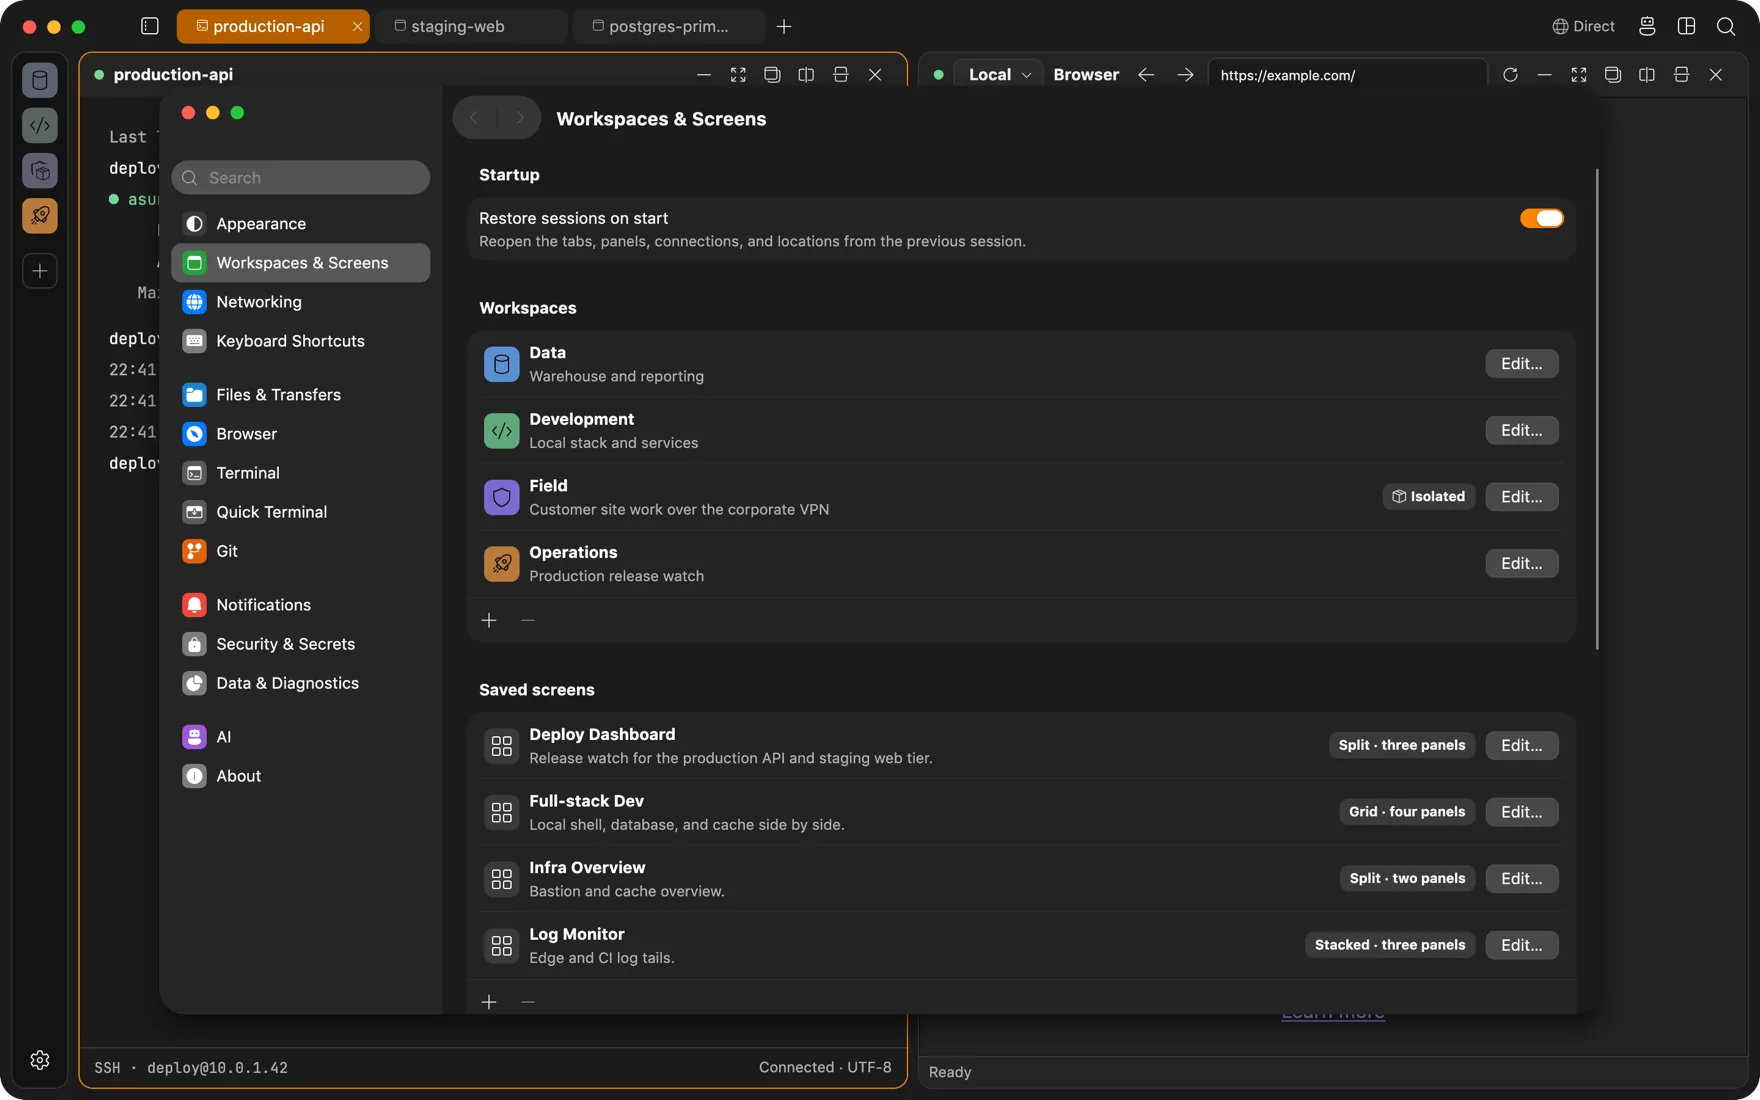
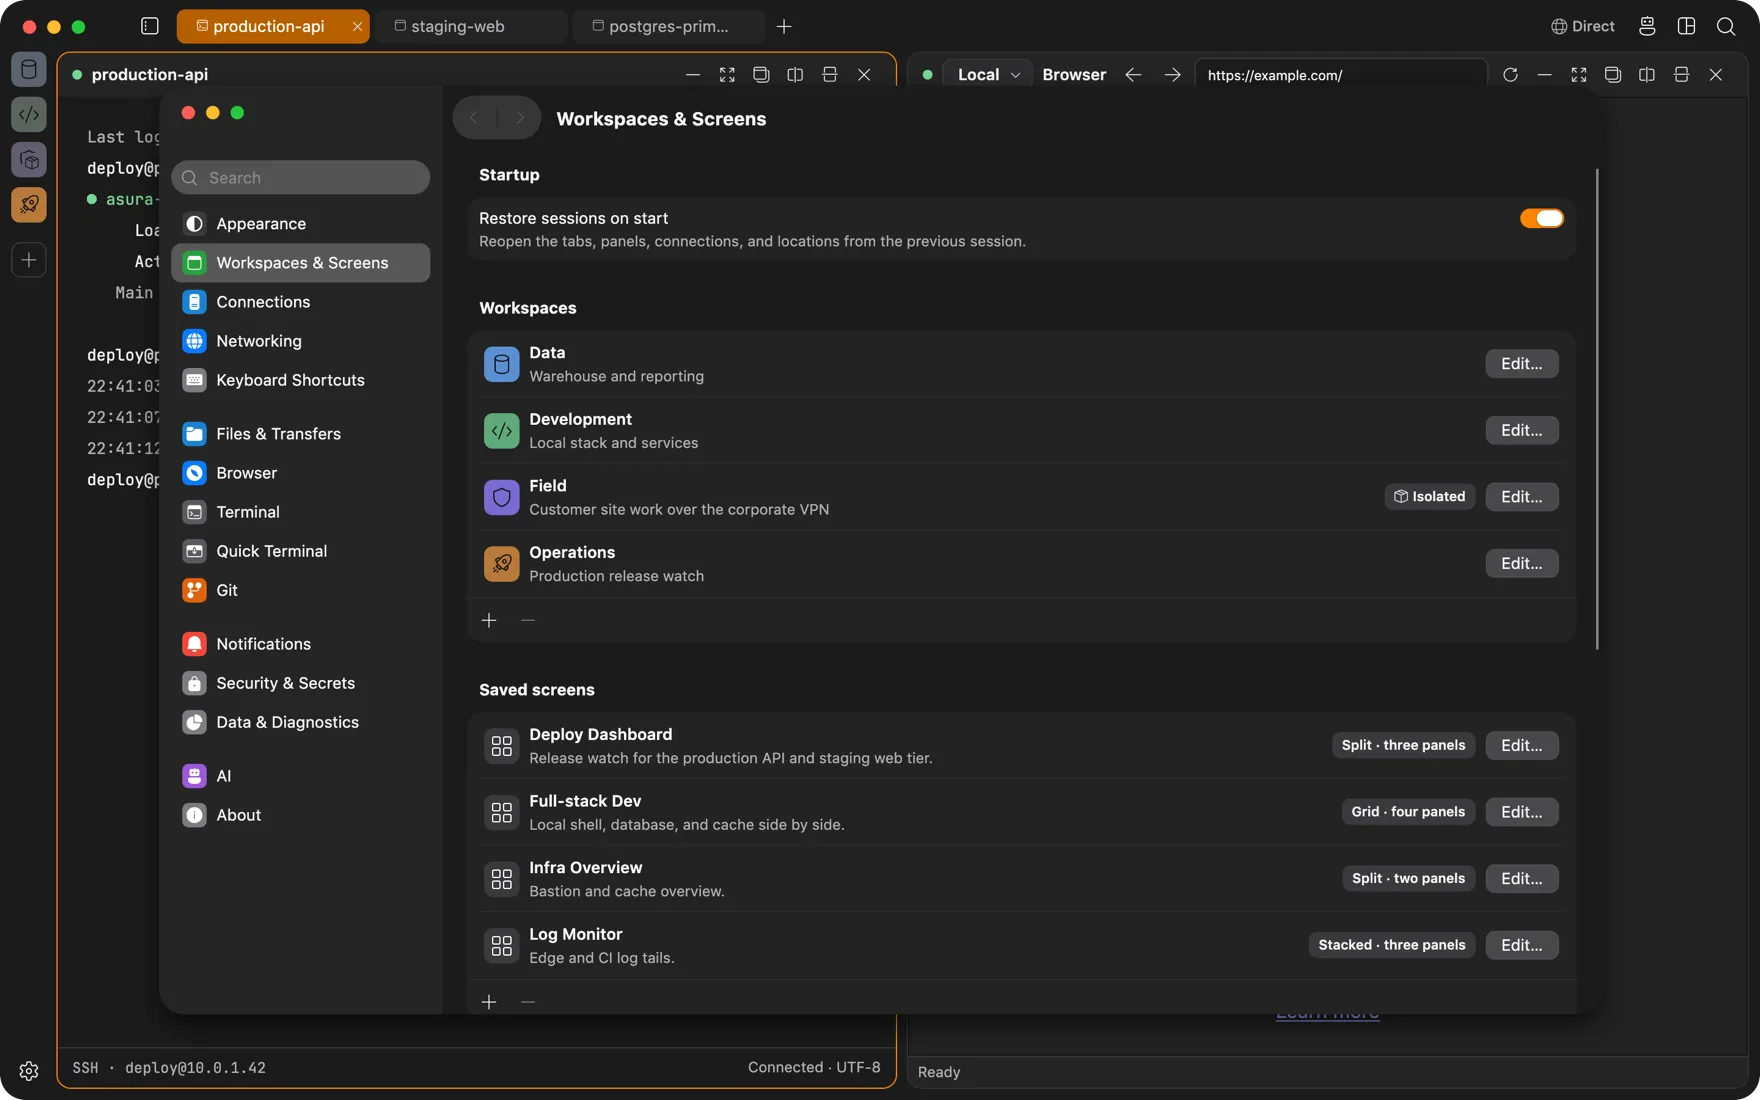
Rest the workspace rail on the window instead of a sidebar panel
The workspace tiles and the Settings gear sat in a bordered sidebar
surface like every other panel. As in current IDEs, they now rest on the
window itself: the rail paints nothing, keeps an inset only on the
window's side and at the foot, and is a tile plus that inset wide. The
first tile lines up with the top of the canvas and the gear with its
bottom.

The rail has no background at all, so the window edge's resize grip
still receives presses in its inset.

Website screenshots are regenerated.

diff --git a/src/Asura.App/App.axaml.cs b/src/Asura.App/App.axaml.cs
@@ -1113,6 +1113,14 @@ public sealed partial class App : Avalonia.Application
             + (resources.Spacing.Small * 2)
             + 2);
 
+        // The workspace rail has no surface of its own: its tiles rest on the
+        // window. A tile and the inset on the window's side are all it needs,
+        // because the canvas beside it already keeps the gap on its own side.
+        Publish(
+            "ShellWorkspaceRailWidth",
+            Math.Round(resources.ControlMinHeight * 1.05)
+            + resources.Spacing.Small);
+
         // The rail tile's outline, and how wide it opens when it offers to close
         // the workspace. Twice its own width, so the action it reveals is the
         // same size as the tile it belongs to rather than a sliver beside it.

diff --git a/tests/Asura.Architecture.Tests/WorkspaceViewContractTests.cs b/tests/Asura.Architecture.Tests/WorkspaceViewContractTests.cs
@@ -321,7 +321,8 @@ public sealed class WorkspaceViewContractTests
                     AttributeValue(element, "DockPanel.Dock"),
                     "{Binding WorkspacePanelDock}",
                     StringComparison.Ordinal));
-        Assert.True(HasClass(rail, "FloatingSidebar"));
+        Assert.True(HasClass(rail, "WorkspaceRail"));
+        Assert.False(HasClass(rail, "FloatingSidebar"));
         Assert.Equal(
             "{Binding IsWorkspaceRailVisible}",
             AttributeValue(rail, "IsVisible"));

diff --git a/src/Asura.App/Views/ShellFocusNavigator.cs b/src/Asura.App/Views/ShellFocusNavigator.cs
@@ -195,7 +195,7 @@ internal sealed class ShellFocusNavigator(
             .FirstOrDefault();
         var rail = currentTile?.GetVisualAncestors()
             .OfType<Border>()
-            .FirstOrDefault(border => border.Classes.Contains("FloatingSidebar"));
+            .FirstOrDefault(border => border.Classes.Contains("WorkspaceRail"));
         if (currentTile is not null && rail is not null)
         {
             yield return new FocusArea(rail, () => _ = FocusFirst(currentTile) || FocusFirst(rail));

diff --git a/tests/Asura.App.Tests/WorkspacesMenuHeadlessTests.cs b/tests/Asura.App.Tests/WorkspacesMenuHeadlessTests.cs
@@ -125,7 +125,7 @@ public sealed class WorkspacesMenuHeadlessTests
             // At the foot of the rail, below every workspace and the add
             // tile, however few workspaces there are.
             var rail = gear.FindAncestorOfType<Border>(includeSelf: false)!;
-            while (!rail.Classes.Contains("FloatingSidebar"))
+            while (!rail.Classes.Contains("WorkspaceRail"))
             {
                 rail = rail.FindAncestorOfType<Border>()!;
             }
